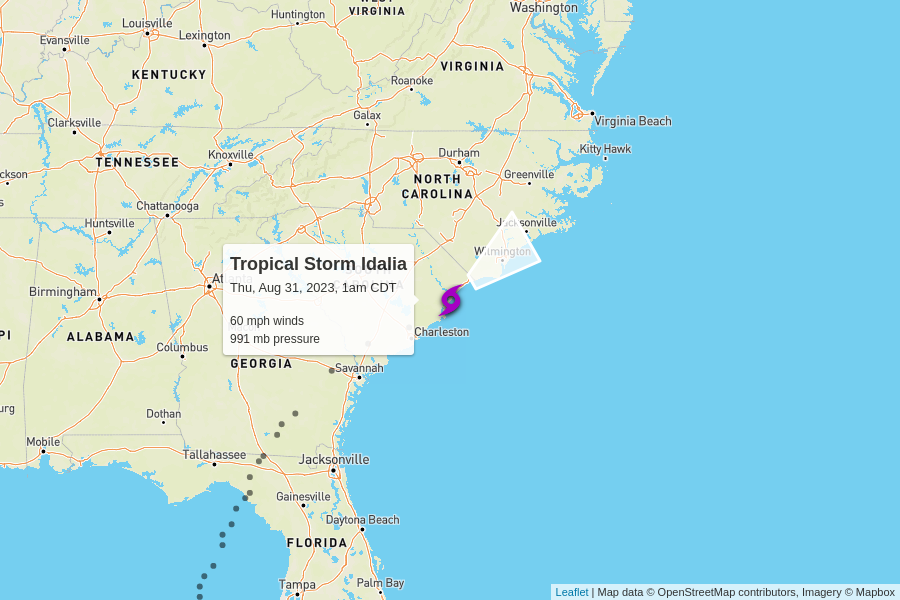
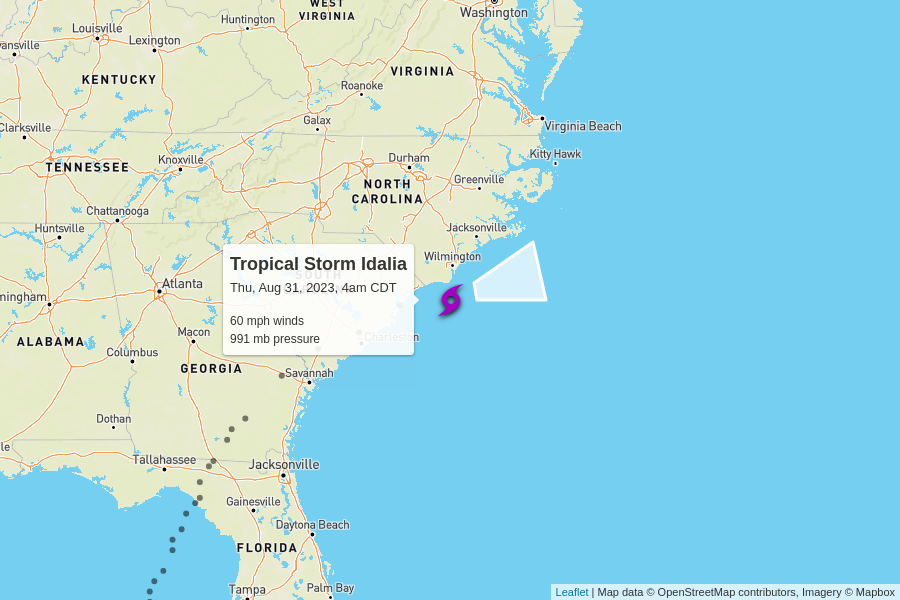
automatic update

Changed region(s): [[0.0, 0.0, 0.7467, 1.0], [0.1556, 0.96, 0.1867, 0.99]]

diff --git a/docs/index.html b/docs/index.html
@@ -100,7 +100,7 @@
         <td colspan="6" class="storm category-2" >
           <h2>
             Hurricane Franklin - Category 2
-            <p class="updated">last updated <span data-time>2023-08-31T06:00:00.000Z</span></p>
+            <p class="updated">last updated <span data-time>2023-08-31T09:00:00.000Z</span></p>
           </h2>
         </td>
       </tr>
@@ -118,9 +118,9 @@
         <td>100 mph</td>
         <td>965 mb</td>
         <td>
-          14 mph to the east-northeast
+          15 mph to the east-northeast
           <br/>
-          <span style="display: inline-block; font-size: 1.5em; transform: rotate(70deg);">↑</span>
+          <span style="display: inline-block; font-size: 1.5em; transform: rotate(60deg);">↑</span>
         </td>
         <td><a href="https://raw.githubusercontent.com/mgwalker/atlantic-hurricanes/main/data/csv/AL082023.csv">AL082023.csv</a></td>
         <td><a href="https://www.nhc.noaa.gov/archive/2023/FRANKLIN.shtml?">NHC advisories</a></td>
@@ -144,7 +144,7 @@
         <td colspan="6" class="storm category-0" >
           <h2>
             Tropical Storm Idalia
-            <p class="updated">last updated <span data-time>2023-08-31T06:00:00.000Z</span></p>
+            <p class="updated">last updated <span data-time>2023-08-31T09:00:00.000Z</span></p>
           </h2>
         </td>
       </tr>
@@ -162,9 +162,9 @@
         <td>60 mph</td>
         <td>991 mb</td>
         <td>
-          21 mph to the northeast
+          21 mph to the east-northeast
           <br/>
-          <span style="display: inline-block; font-size: 1.5em; transform: rotate(55deg);">↑</span>
+          <span style="display: inline-block; font-size: 1.5em; transform: rotate(75deg);">↑</span>
         </td>
         <td><a href="https://raw.githubusercontent.com/mgwalker/atlantic-hurricanes/main/data/csv/AL102023.csv">AL102023.csv</a></td>
         <td><a href="https://www.nhc.noaa.gov/archive/2023/IDALIA.shtml?">NHC advisories</a></td>
@@ -187,8 +187,8 @@
       <tr>
         <td colspan="6" class="storm category-0" >
           <h2>
-            Tropical Depression Eleven
-            <p class="updated">last updated <span data-time>2023-08-31T03:00:00.000Z</span></p>
+            Tropical Storm Jose
+            <p class="updated">last updated <span data-time>2023-08-31T09:00:00.000Z</span></p>
           </h2>
         </td>
       </tr>
@@ -203,15 +203,15 @@
       </tr>
       <tr>
         <td class="spacer"></td>
-        <td>35 mph</td>
-        <td>1014 mb</td>
+        <td>40 mph</td>
+        <td>1011 mb</td>
         <td>
-          2 mph to the north
+          5 mph to the north
           <br/>
-          <span style="display: inline-block; font-size: 1.5em; transform: rotate(360deg);">↑</span>
+          <span style="display: inline-block; font-size: 1.5em; transform: rotate(350deg);">↑</span>
         </td>
         <td><a href="https://raw.githubusercontent.com/mgwalker/atlantic-hurricanes/main/data/csv/AL112023.csv">AL112023.csv</a></td>
-        <td><a href="https://www.nhc.noaa.gov/archive/2023/ELEVEN.shtml?">NHC advisories</a></td>
+        <td><a href="https://www.nhc.noaa.gov/archive/2023/JOSE.shtml?">NHC advisories</a></td>
       </tr>
       <tr id="storm_AL112023" >
         <td class="spacer">
